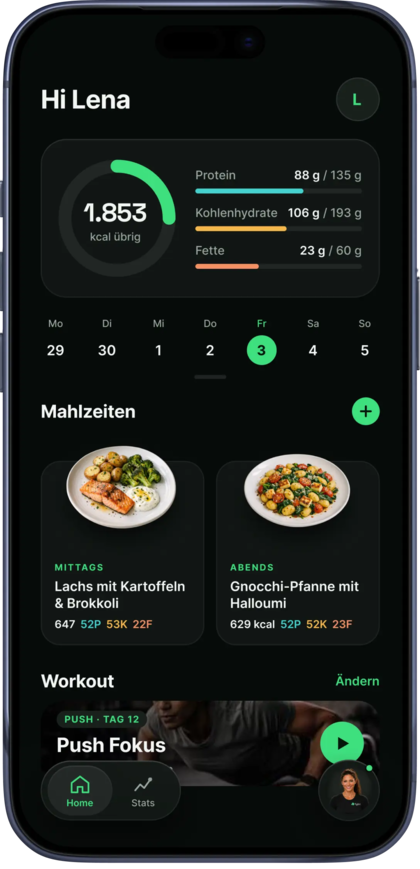
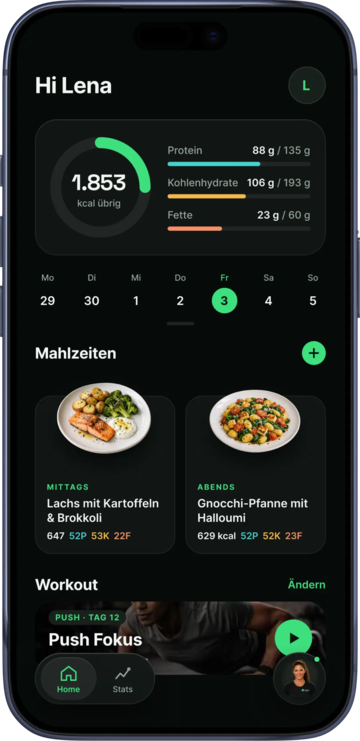
style(pdf): balanced 64/36 promo split, trimmed & centered phone image

diff --git a/resources/views/pdf/workout_plan_v2.blade.php b/resources/views/pdf/workout_plan_v2.blade.php
@@ -213,7 +213,7 @@
             table-layout: fixed;
         }
         .promo td { padding: 26px 30px; vertical-align: middle; }
-        .promo__text { width: 67%; }
+        .promo__text { width: 64%; }
         .promo__head { font-family: 'Space Grotesk', sans-serif; font-weight: bold; font-size: 23px; color: #0c1310; }
         .promo__sub { font-size: 12.5px; color: #5c6b62; line-height: 1.3; margin: 7px 0 26px 0; }
 
@@ -241,7 +241,7 @@
             color: #8a968f;
             padding: 5px 0;
         }
-        .promo__phone { width: 33%; text-align: center; vertical-align: middle; }
+        .promo__phone { width: 36%; text-align: center; vertical-align: middle; }
         .promo__phone img { width: 150px; }
     </style>
 </head>
